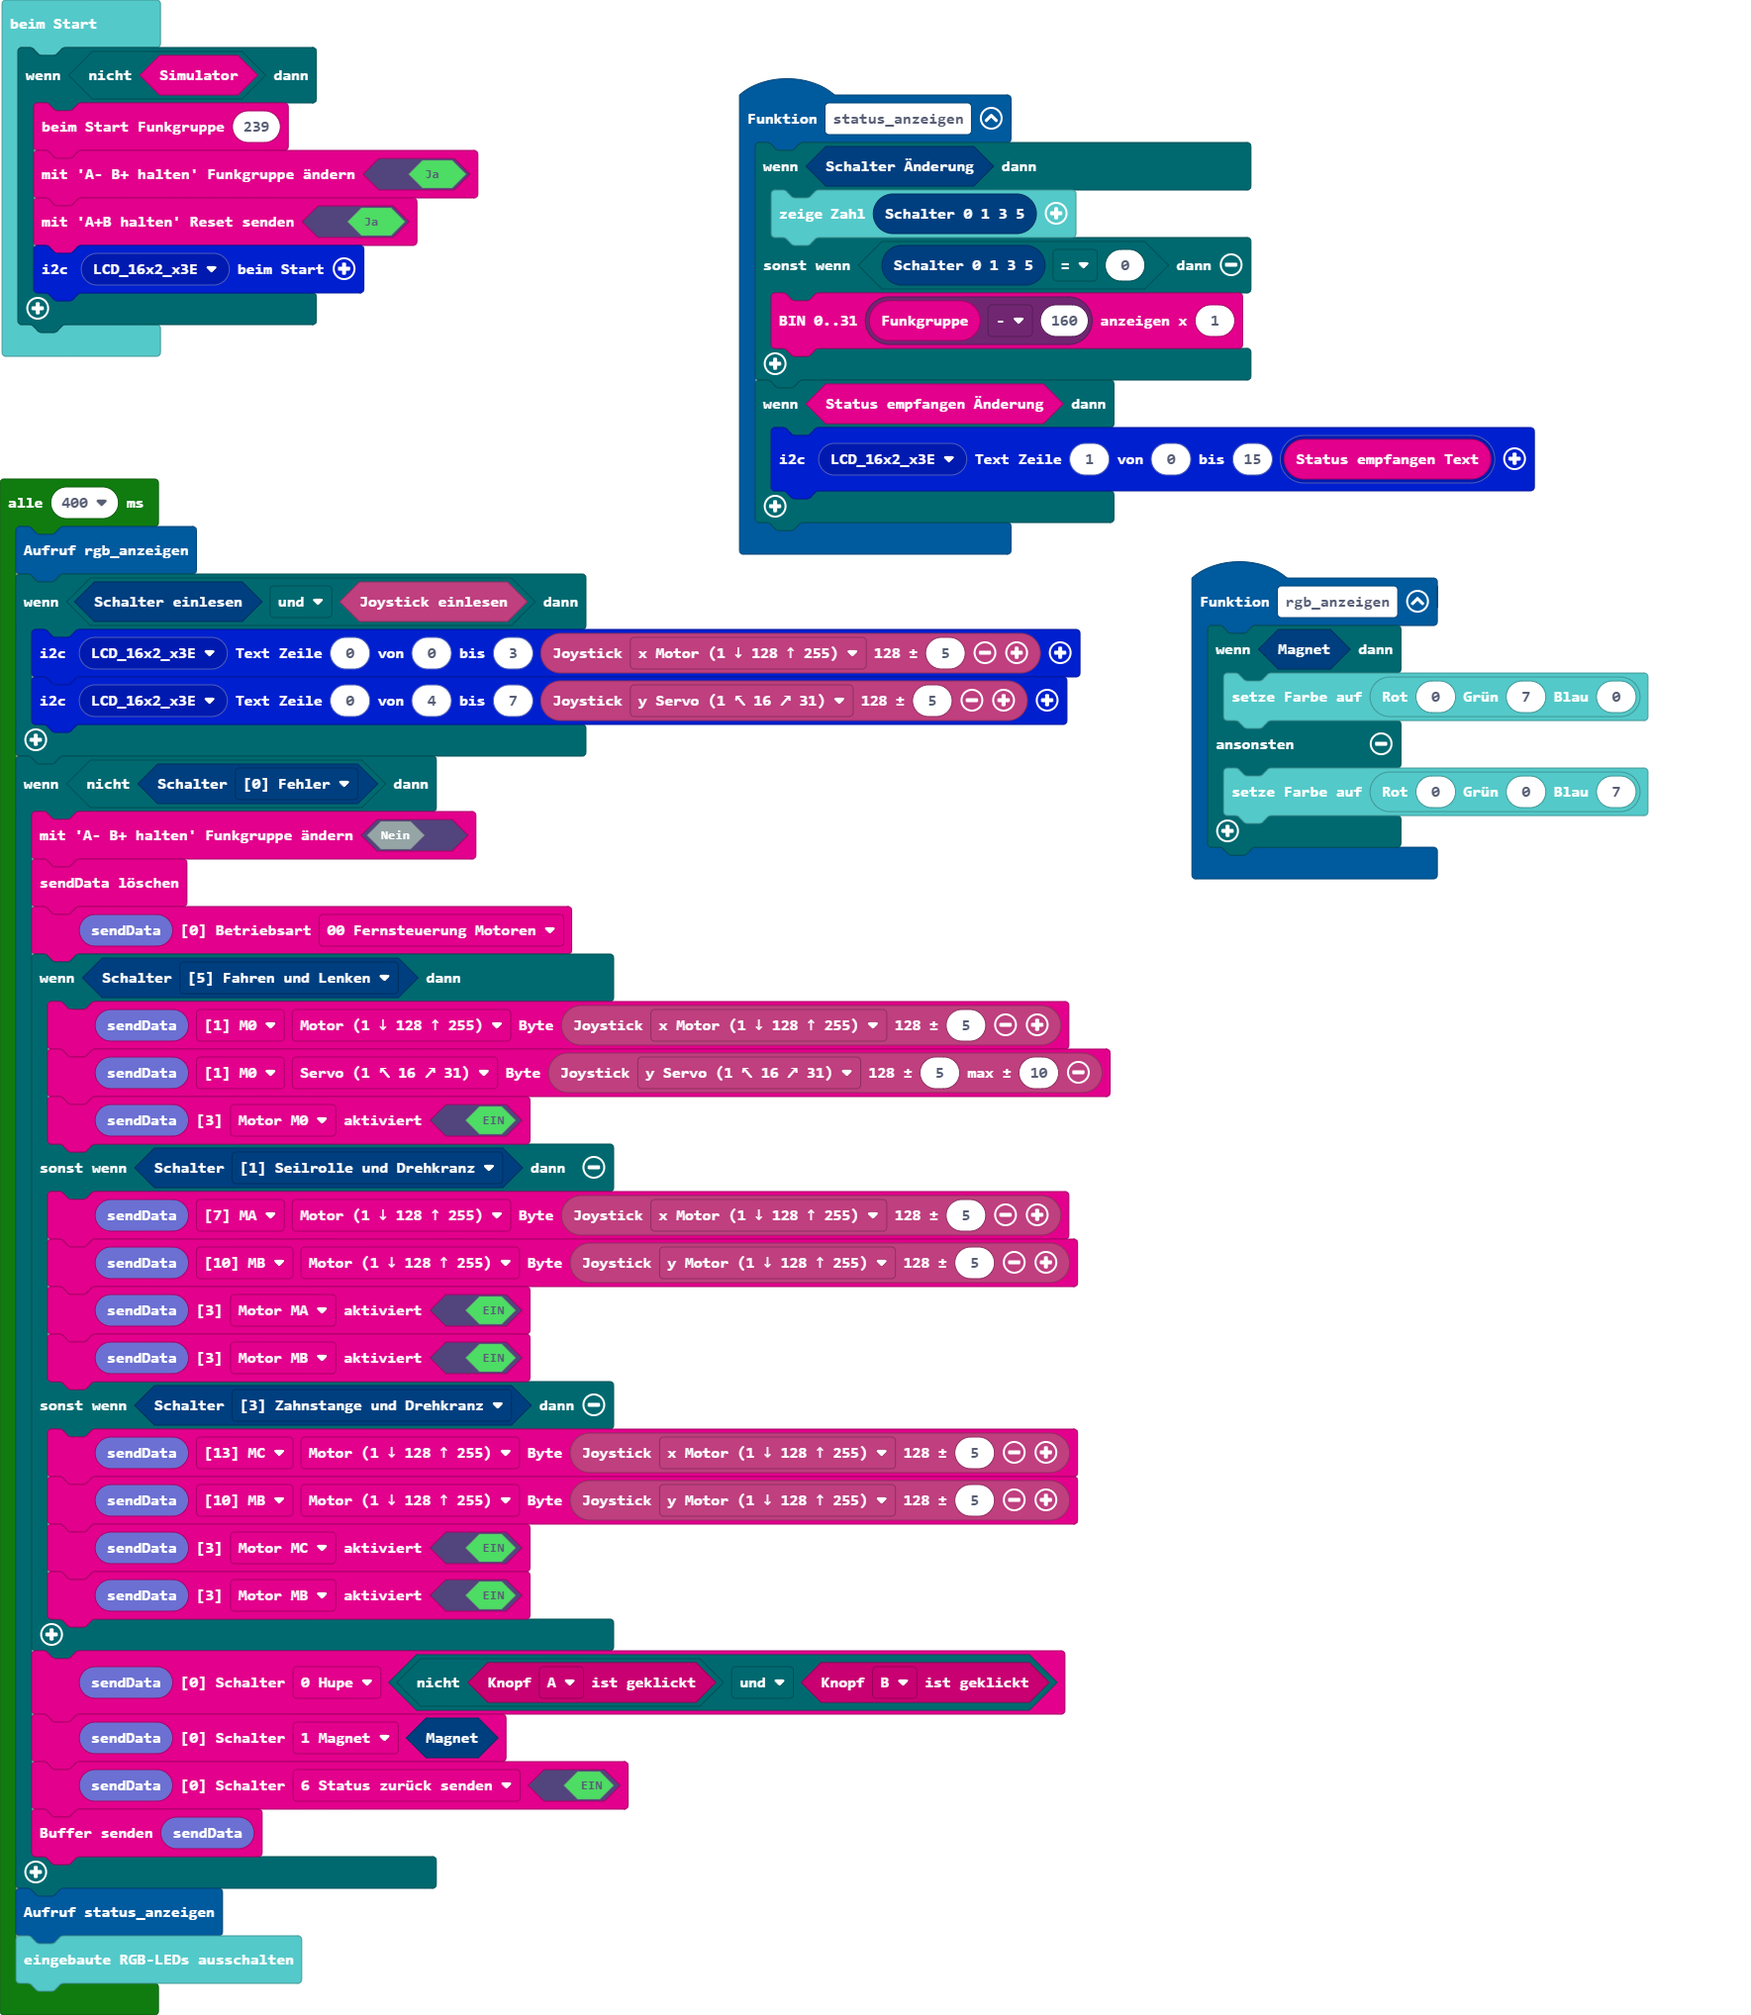
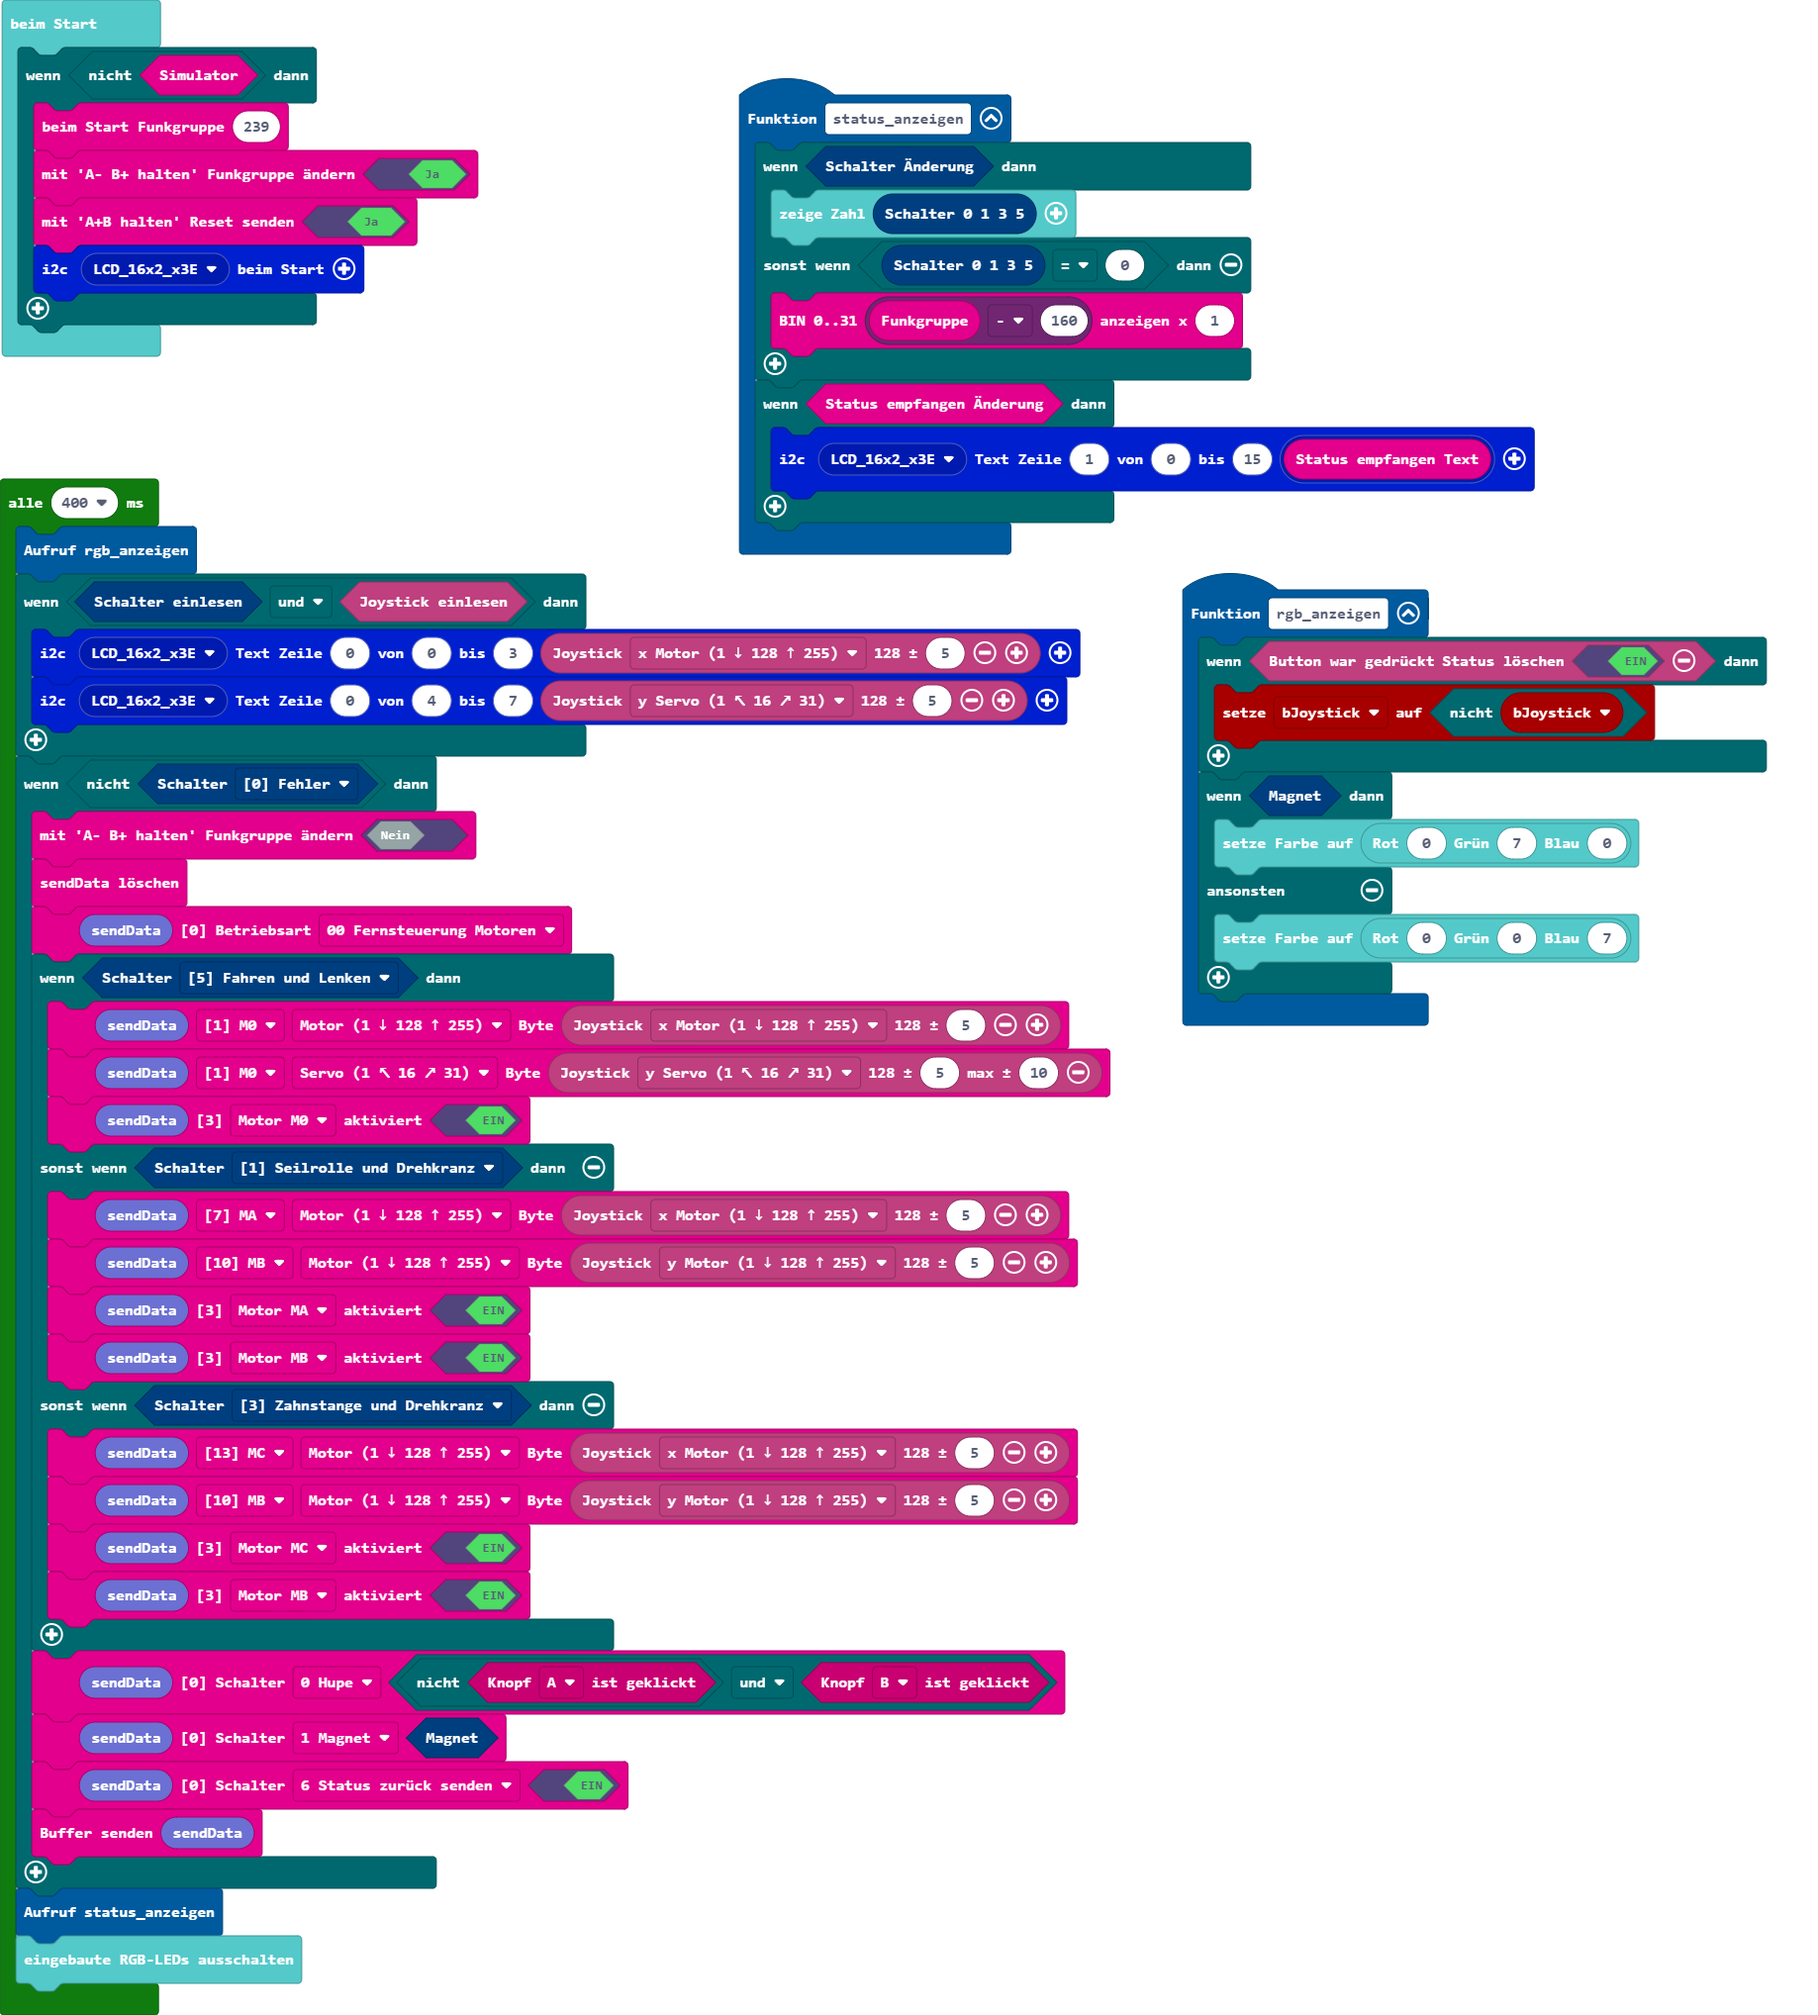
Aktualisiere pxt.json, main.blocks, main.ts

diff --git a/main.ts b/main.ts
@@ -9,12 +9,16 @@ function status_anzeigen () {
     }
 }
 function rgb_anzeigen () {
+    if (radio.buttonStatus(true)) {
+        bJoystick = !(bJoystick)
+    }
     if (radio.getMagnet()) {
         basic.setLedColor(basic.rgb(0, 7, 0))
     } else {
         basic.setLedColor(basic.rgb(0, 0, 7))
     }
 }
+let bJoystick = false
 if (!(radio.simulator())) {
     radio.beimStart(239)
     radio.enableButtonFunkgruppe(true)
@@ -24,7 +28,7 @@ if (!(radio.simulator())) {
 loops.everyInterval(400, function () {
     rgb_anzeigen()
     if (radio.readSwitch() && radio.joystickQwiic()) {
-        lcd16x2rgb.writeText(lcd16x2rgb.lcd16x2_eADDR(lcd16x2rgb.eADDR_LCD.LCD_16x2_x3E), 0, 0, 3, radio.joystickValue(radio.eJoystickValue.motor, 5))
+        lcd16x2rgb.writeText(lcd16x2rgb.lcd16x2_eADDR(lcd16x2rgb.eADDR_LCD.LCD_16x2_x3E), 0, 0, 3, radio.joystickValue(radio.eJoystickValue.xmotor, 5))
         lcd16x2rgb.writeText(lcd16x2rgb.lcd16x2_eADDR(lcd16x2rgb.eADDR_LCD.LCD_16x2_x3E), 0, 4, 7, radio.joystickValue(radio.eJoystickValue.servo16, 5))
     }
     if (!(radio.isSwitch(radio.eStatus.fehler))) {
@@ -32,16 +36,16 @@ loops.everyInterval(400, function () {
         radio.fill_sendBuffer19()
         radio.setBetriebsart(radio.radio_sendBuffer19(), radio.e0Betriebsart.p0)
         if (radio.isSwitch(radio.eStatus.fahren)) {
-            radio.setByte(radio.radio_sendBuffer19(), radio.eBufferPointer.m0, radio.eBufferOffset.b0_Motor, radio.joystickValue(radio.eJoystickValue.motor, 5))
+            radio.setByte(radio.radio_sendBuffer19(), radio.eBufferPointer.m0, radio.eBufferOffset.b0_Motor, radio.joystickValue(radio.eJoystickValue.xmotor, 5))
             radio.setByte(radio.radio_sendBuffer19(), radio.eBufferPointer.m0, radio.eBufferOffset.b1_Servo, radio.joystickValue(radio.eJoystickValue.servo16, 5, 10))
             radio.setaktiviert(radio.radio_sendBuffer19(), radio.e3aktiviert.m0, true)
         } else if (radio.isSwitch(radio.eStatus.drehen)) {
-            radio.setByte(radio.radio_sendBuffer19(), radio.eBufferPointer.ma, radio.eBufferOffset.b0_Motor, radio.joystickValue(radio.eJoystickValue.motor, 5))
+            radio.setByte(radio.radio_sendBuffer19(), radio.eBufferPointer.ma, radio.eBufferOffset.b0_Motor, radio.joystickValue(radio.eJoystickValue.xmotor, 5))
             radio.setByte(radio.radio_sendBuffer19(), radio.eBufferPointer.mb, radio.eBufferOffset.b0_Motor, radio.joystickValue(radio.eJoystickValue.ymotor, 5))
             radio.setaktiviert(radio.radio_sendBuffer19(), radio.e3aktiviert.ma, true)
             radio.setaktiviert(radio.radio_sendBuffer19(), radio.e3aktiviert.mb, true)
         } else if (radio.isSwitch(radio.eStatus.zahnstange)) {
-            radio.setByte(radio.radio_sendBuffer19(), radio.eBufferPointer.mc, radio.eBufferOffset.b0_Motor, radio.joystickValue(radio.eJoystickValue.motor, 5))
+            radio.setByte(radio.radio_sendBuffer19(), radio.eBufferPointer.mc, radio.eBufferOffset.b0_Motor, radio.joystickValue(radio.eJoystickValue.xmotor, 5))
             radio.setByte(radio.radio_sendBuffer19(), radio.eBufferPointer.mb, radio.eBufferOffset.b0_Motor, radio.joystickValue(radio.eJoystickValue.ymotor, 5))
             radio.setaktiviert(radio.radio_sendBuffer19(), radio.e3aktiviert.mc, true)
             radio.setaktiviert(radio.radio_sendBuffer19(), radio.e3aktiviert.mb, true)
